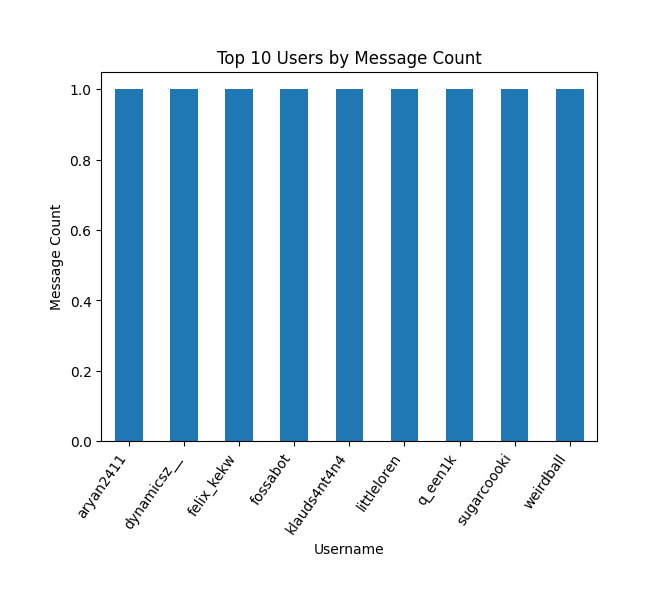
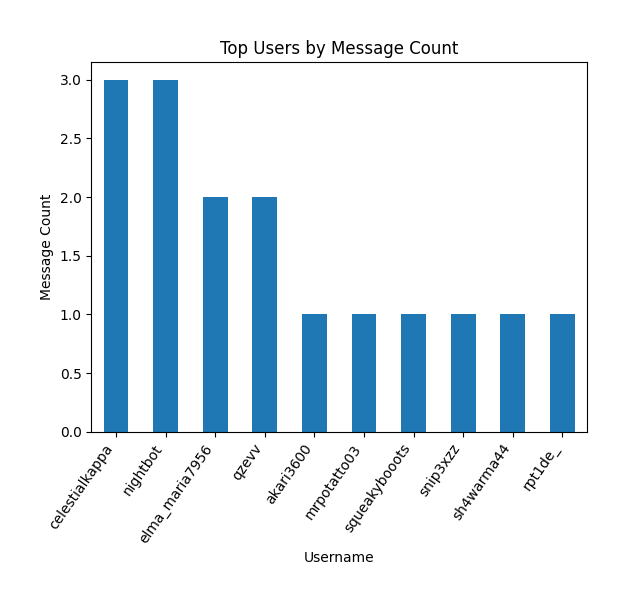
final changes

diff --git a/twitch.py b/twitch.py
@@ -58,6 +58,31 @@ def preprocess_text(text):
     lemm_tokens = [lemmatizer.lemmatize(token) for token in cleaned_tokens]
     return ' '.join(lemm_tokens)
 
+def get_pos_words(df: pd.DataFrame):
+    pos_lines = list(df[df.label == 1].message)
+    tokens = []
+    for line in pos_lines:
+        toks = word_tokenize(line)
+        tokens.extend(toks)
+    pos_freq = nltk.FreqDist(tokens)
+    words = pos_freq.most_common(10)
+    ans = "Top positive words:\n"
+    for word in words:
+        ans += f"- {word[0]}\n"
+    return ans
+def get_neg_words(df: pd.DataFrame):
+    neg_lines = list(df[df.label == -1].message)
+    tokens = []
+    for line in neg_lines:
+        toks = word_tokenize(line)
+        tokens.extend(toks)
+    neg_freq = nltk.FreqDist(tokens)
+    words = neg_freq.most_common(10)
+    ans = "Top negative words:\n"
+    for word in words:
+        ans += f"- {word[0]}\n"
+    return ans
+
 def get_sentiment (sent, text) :
     #nltk.download('all')
     sia = SIA()
@@ -166,26 +191,15 @@ async def get_message(streamer: str) -> str:
                 file.flush()
                 logging.info(msg)
                 response += msg
-                # time_logged = msg.split()[0].strip()
-
-                # time_logged = datetime.strptime(time_logged, '%Y-%m-%d_%H:%M:%S')
-                # username_message = msg.split('—')[1:]
-                # username_message = '—'.join(username_message).strip()
-
-                # print(f"user time: {time_logged}")
-                # username, channel, message = re.search(':(.*)\!.*@.*\.tmi\.twitch\.tv PRIVMSG #(.*) :(.*)', username_message).groups()
-
-                # print(f"Channel: {channel} \nUsername: {username} \nMessage: {message}")
         file.close()
         writer.close()
         await writer.wait_closed()
     df = data_analysis()
     print(df)
-    # return df['message'].iloc(df.last_valid_index())
     df2 = df.loc[df['channel'] == streamer.lower()]
     print("take two")
     print(df2)
-    #want bar char of top ten users and how many messages they have sent (excluding bots)
+    print("haha")
 
     df_user = df2.groupby(['username']).count()
     #df_user : pd.DataFrame = df_user.loc[len(df['username']) < 50]
@@ -202,4 +216,4 @@ async def get_message(streamer: str) -> str:
     plt.title('Top Users by Message Count')
     plt.savefig("plot.png", bbox_inches='tight', pad_inches=0.4)
 
-    return discord.Embed(title=f"# Streamer: {streamer}", description=f"users stored: {df_user.shape[0]}\nAvg total sentiment: {df2['tot'].mean():.4f}\nAvg pos sentiment: {df2['pos'].mean():.4f}\nAvg neutral sentiment: {df2['neu'].mean():.4f}\nAvg negative sentiment: {df2['neg'].mean():.4f}", color= 666531)
+    return discord.Embed(title=f"Streamer: {streamer}", description=f"users stored: {df_user.shape[0]}\nAvg total sentiment (out of 1): {df2['tot'].mean():.2f}\nAvg pos: {df2['pos'].mean():.2f}\nAvg neutral: {df2['neu'].mean():.2f}\nAvg neg: {df2['neg'].mean():.2f}\n{get_pos_words(df2)}\n{get_neg_words(df2)}", color= 666531)
